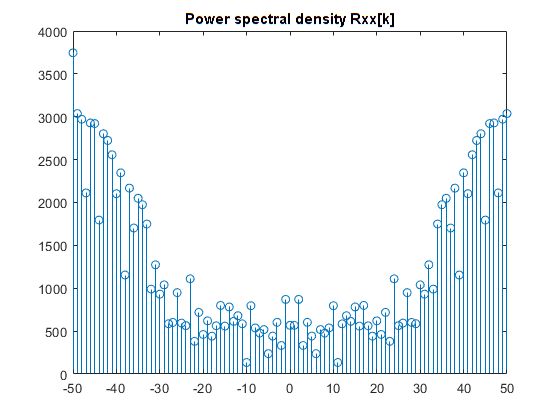
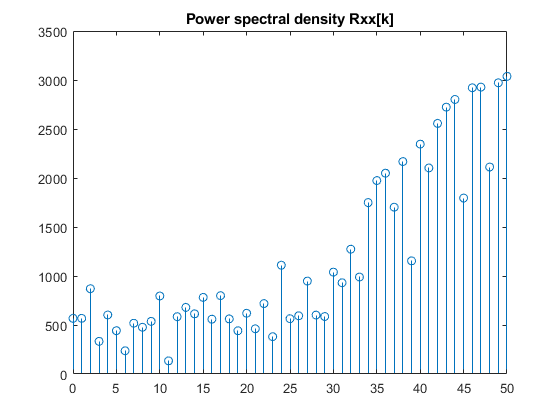
THE SHIFT

diff --git a/Lab3/System_identification.m b/Lab3/System_identification.m
@@ -27,10 +27,10 @@ fftRyy = fft(Ryy);
 fftRxy = fft(Rxy);
 
 figure(4)
-stem(lag_plot,abs(fftRxx))
+stem(lag_plot(lag+1:end),abs(fftRxx(lag+1:end)))
 title("Power spectral density Rxx[k]")
 figure(5)
-stem(lag_plot,abs(fftRyy))
+stem(lag_plot(lag+1:end),abs(fftRyy(lag+1:end)))
 title("Power spectral density Ryy[k]")
 
 Ryx = xcorr(y, x, lag);
